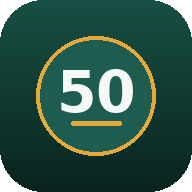
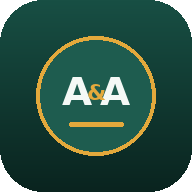
Add files via upload

Changed region(s): [[0.3125, 0.3438, 0.7188, 0.5938], [0.3438, 0.625, 0.6562, 0.6875]]

diff --git a/index.html b/index.html
@@ -5,7 +5,7 @@
 <meta name="viewport" content="width=device-width, initial-scale=1, viewport-fit=cover">
 <meta name="theme-color" content="#123B33">
 <meta name="description" content="Perencana tabungan dan pencatat keuangan pribadi yang bekerja luring.">
-<title>Dompet 50Jt</title>
+<title>Dompet A&amp;A</title>
 <!-- PWA: href manifest & ikon diisi saat berjalan dari alamat halaman,
      supaya berkas ini tetap bisa dipindah atau diganti nama. -->
 <link rel="manifest" id="mfLink">
@@ -13,7 +13,7 @@
 <meta name="mobile-web-app-capable" content="yes">
 <meta name="apple-mobile-web-app-capable" content="yes">
 <meta name="apple-mobile-web-app-status-bar-style" content="black-translucent">
-<meta name="apple-mobile-web-app-title" content="Dompet 50Jt">
+<meta name="apple-mobile-web-app-title" content="Dompet A&amp;A">
 <meta name="format-detection" content="telephone=no">
 <link rel="preconnect" href="https://fonts.googleapis.com">
 <link rel="preconnect" href="https://fonts.gstatic.com" crossorigin>
@@ -730,7 +730,7 @@ body[data-standalone="1"] .main{padding-top:calc(22px + env(safe-area-inset-top)
     padding:26px 16px;position:sticky;top:0;height:100vh;
   }
   .brand{display:flex;align-items:center;gap:10px;padding:0 8px 22px}
-  .brand .mark{width:34px;height:34px;border-radius:var(--r-sm);background:var(--pine);color:var(--gold);display:grid;place-items:center;font-weight:800;font-size:15px}
+  .brand .mark{width:34px;height:34px;border-radius:var(--r-sm);background:var(--pine);color:var(--gold);display:grid;place-items:center;font-weight:800;font-size:12.5px;letter-spacing:-.02em}
   .brand b{font-size:16px;font-weight:800;letter-spacing:-.02em}
   .brand small{display:block;font-size:11.5px;color:var(--ink-3);font-weight:500}
   .snav{display:flex;flex-direction:column;gap:2px}
@@ -776,8 +776,8 @@ body[data-standalone="1"] .main{padding-top:calc(22px + env(safe-area-inset-top)
 <div class="shell">
   <aside class="sidebar">
     <div class="brand">
-      <div class="mark">50</div>
-      <div><b>Dompet 50Jt</b><small>Perencana tabungan</small></div>
+      <div class="mark">A&amp;A</div>
+      <div><b>Dompet A&amp;A</b><small>Perencana tabungan</small></div>
     </div>
     <nav class="snav" id="snav" aria-label="Navigasi utama"></nav>
     <div class="side-foot" id="sideFoot"></div>
@@ -814,6 +814,7 @@ const STORAGE_KEY = "dompet50jt:data";
 const NOTIF_KEY = "dompet50jt:notif";          // riwayat notifikasi — kunci TERPISAH
 const NOTIF_STATE_VERSION = 1;                 // dari data keuangan, supaya berkas
 const NOTIF_HISTORY_MAX = 60;                  // ekspor tetap seperti dulu
+const APP_NAME = "Dompet A&A";   // nama tampilan; kunci penyimpanan TIDAK ikut berubah
 const SW_URL = "sw.js";
 const IDB_NAME = "dompet50jt";
 const IDB_STORE = "pwa";
@@ -821,9 +822,9 @@ const HOUR = 3600000, DAY = 86400000;
 
 /* Ikon aplikasi ditanam sebagai data URI supaya berkas HTML ini tetap utuh
    sendirian — manifest bisa dibangun tanpa berkas gambar terpisah. */
[6 lines of base64/hex data omitted]
 
 /* Notifikasi mati sampai pengguna menyalakannya sendiri — izin browser tidak
    pernah diminta saat aplikasi pertama kali dibuka. */
@@ -2802,7 +2803,7 @@ View.pengaturan = function(){
     '</div>'+
     '<p class="note">Semua data tersimpan di browser perangkat ini saja, tidak dikirim ke mana pun. '+
       'Membersihkan data situs di browser akan menghapusnya juga — ekspor berkala kalau datanya penting.</p>'+
-    '<p class="note">Dompet 50Jt · versi data '+APP_DATA_VERSION+' · '+Store.data.transactions.length+
+    '<p class="note">'+esc(APP_NAME)+' · versi data '+APP_DATA_VERSION+' · '+Store.data.transactions.length+
       ' transaksi tercatat · '+Notif.state().history.length+' notifikasi tersimpan</p>';
 };
 
@@ -3294,10 +3295,10 @@ function validateImport(raw){
   const errors = [], warnings = [];
 
   if(raw === null || typeof raw !== "object" || Array.isArray(raw)){
-    return {ok:false, errors:["Isi berkas bukan objek data. Pilih berkas JSON hasil ekspor Dompet 50Jt."], warnings, summary:null};
+    return {ok:false, errors:["Isi berkas bukan objek data. Pilih berkas JSON hasil ekspor "+APP_NAME+"."], warnings, summary:null};
   }
   if(raw.transactions === undefined && raw.profile === undefined && raw.budgets === undefined){
-    return {ok:false, errors:["Struktur berkas tidak dikenali sebagai cadangan Dompet 50Jt."], warnings, summary:null};
+    return {ok:false, errors:["Struktur berkas tidak dikenali sebagai cadangan "+APP_NAME+"."], warnings, summary:null};
   }
   if(raw.version !== undefined){
     if(typeof raw.version !== "number" || !Number.isFinite(raw.version)){
@@ -3353,11 +3354,11 @@ function validateImport(raw){
 function exportData(){
   try{
     const payload = Object.assign({}, Store.data, {
-      app:"Dompet 50Jt",
+      app: APP_NAME,
       exportedAt: new Date().toISOString()
     });
     const json = JSON.stringify(payload, null, 2);
-    const name = "dompet-50jt-"+todayISO()+".json";
+    const name = "dompet-aa-"+todayISO()+".json";
 
     // Sebagian WebView tidak menyediakan Blob URL. Kalau begitu, pakai data URI
     // supaya ekspor tetap bisa jalan alih-alih gagal tanpa penjelasan.
@@ -3498,8 +3499,8 @@ const PWA = {
     const dir  = base.slice(0, base.lastIndexOf("/") + 1);
     return {
       id: dir,
-      name: "Dompet 50Jt",
-      short_name: "Dompet 50Jt",
+      name: APP_NAME,
+      short_name: APP_NAME,
       description: "Perencana tabungan dan pencatat keuangan pribadi yang bekerja luring.",
       lang: "id",
       dir: "ltr",
@@ -4246,7 +4247,7 @@ const Notif = {
     delete st.meta.fired["test"];
     const ok = Notif.push({
       key:"test", cooldown:0, type:"test", priority:"INFO",
-      title:"Notifikasi Dompet 50Jt aktif",
+      title:"Notifikasi "+APP_NAME+" aktif",
       message:"Kalau pesan ini muncul, jalur notifikasi sudah berfungsi.",
       metadata:{route:"pengaturan"}
     });
@@ -4312,7 +4313,7 @@ const Router = {
 
     UI.bindMoney($("#view"));
     UI.progressBars();
-    document.title = (id === "dashboard" ? "Dompet 50Jt" : NAV.find(n => n.id === id).label + " · Dompet 50Jt");
+    document.title = (id === "dashboard" ? APP_NAME : NAV.find(n => n.id === id).label + " · " + APP_NAME);
   }
 };
 

diff --git a/sw.js b/sw.js
@@ -1,5 +1,5 @@
 /* ==========================================================================
-   Dompet 50Jt — Service Worker
+   Dompet A&A — Service Worker
 
    Tugasnya cuma dua: menyimpan cangkang aplikasi supaya bisa dibuka saat
    luring, dan menampilkan pengingat harian bila browser mendukung Periodic
@@ -94,7 +94,7 @@ self.addEventListener("fetch", event => {
         caches.match(req).then(hit =>
           hit || caches.match("./index.html").then(idx =>
             idx || caches.match("./") || new Response(
-              "<h1>Dompet 50Jt</h1><p>Belum ada salinan luring. Buka sekali dalam keadaan daring lebih dulu.</p>",
+              "<h1>Dompet A&amp;A</h1><p>Belum ada salinan luring. Buka sekali dalam keadaan daring lebih dulu.</p>",
               {headers:{"Content-Type":"text/html; charset=utf-8"}}
             )
           )
@@ -195,7 +195,7 @@ function dailyCheck(){
     if(rec.lastExpenseDate === today) return null;           // sudah ada catatan hari ini
     if(new Date().getHours() < (rec.hour || 20)) return null; // belum waktunya
 
-    return self.registration.showNotification(rec.title || "Dompet 50Jt", {
+    return self.registration.showNotification(rec.title || "Dompet A&A", {
       body: rec.body || "Catat pengeluaran hari ini.",
       tag: "dompet-daily-" + today,
       icon: "./icon-192.png",

diff --git a/README.md b/README.md
@@ -1,6 +1,7 @@
-# Dompet 50Jt — versi PWA
+# Dompet A&A — versi PWA
 
-Upgrade dari `dompet-50jt.html` yang sudah ada. Seluruh fitur, rumus, tampilan,
+Upgrade dari `dompet-50jt.html` yang sudah ada. Nama tampilan dan monogram
+diganti jadi **Dompet A&A**, tapi kunci penyimpanan sengaja TIDAK ikut berubah. Seluruh fitur, rumus, tampilan,
 dan data lama dipertahankan. Yang ditambahkan: PWA (bisa di-install, jalan
 luring) dan sistem notifikasi keuangan.
 
@@ -38,7 +39,7 @@ menampilkan status `Perlu https` apa adanya.
 
 ## Data
 
-- Kunci `dompet50jt:data` tidak berubah sama sekali. Transaksi, budget,
+- Kunci `dompet50jt:data` tidak berubah sama sekali, termasuk setelah ganti nama aplikasi. Transaksi, budget,
   target, recurring, salary, savings, dan settings lama terbaca apa adanya.
 - Versi skema naik ke 3. `Store.migrate()` menggabung per-field, jadi berkas
   cadangan lama (tanpa blok notifikasi) tetap bisa diimpor. Tidak ada reset.
@@ -99,7 +100,7 @@ milestone-nya.
 
 ## Hasil pengujian
 
-132 assertion lewat jsdom, semuanya lolos: migrasi data v2 → v3, keenam layar
+147 assertion lewat jsdom, semuanya lolos: migrasi data v2 → v3, keenam layar
 render, transaksi lama tetap muncul, tambah transaksi lewat sheet, edit budget,
 pencarian, dark mode, ekspor/impor, reset, manifest, badge, pusat notifikasi,
 tiap aturan notifikasi, dan anti-spam (10× pemeriksaan berturut-turut tidak
